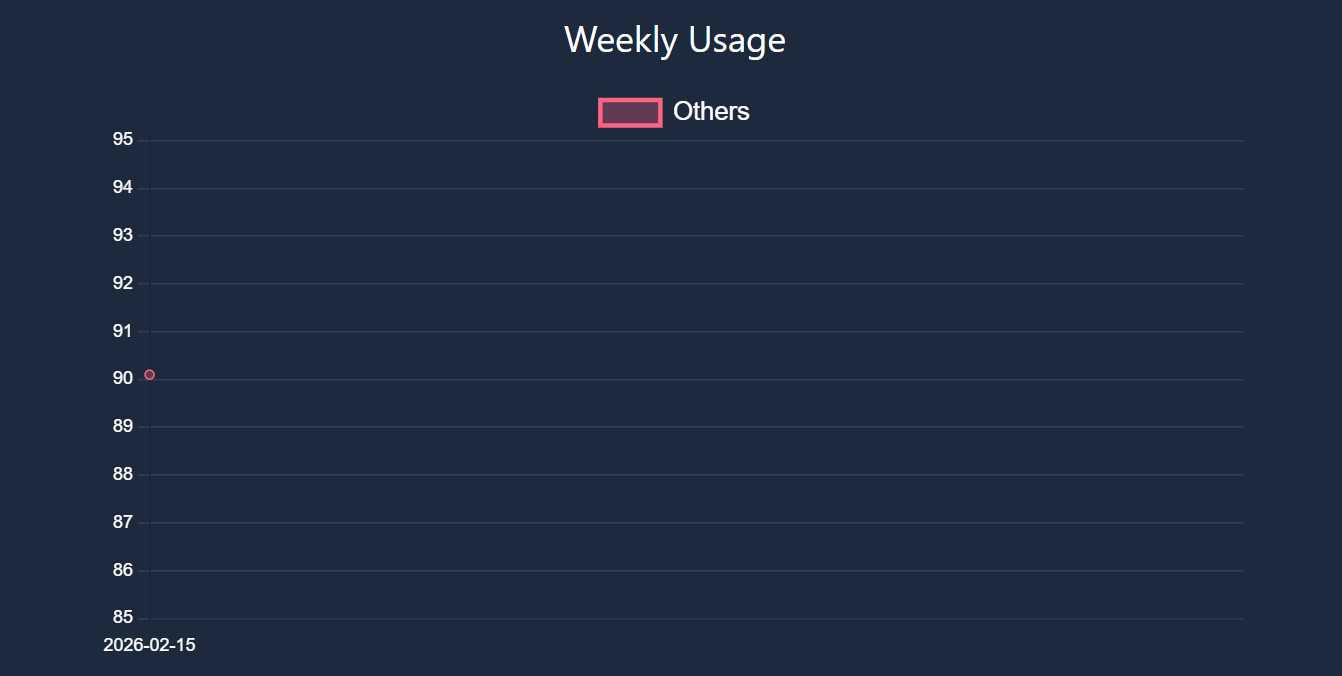
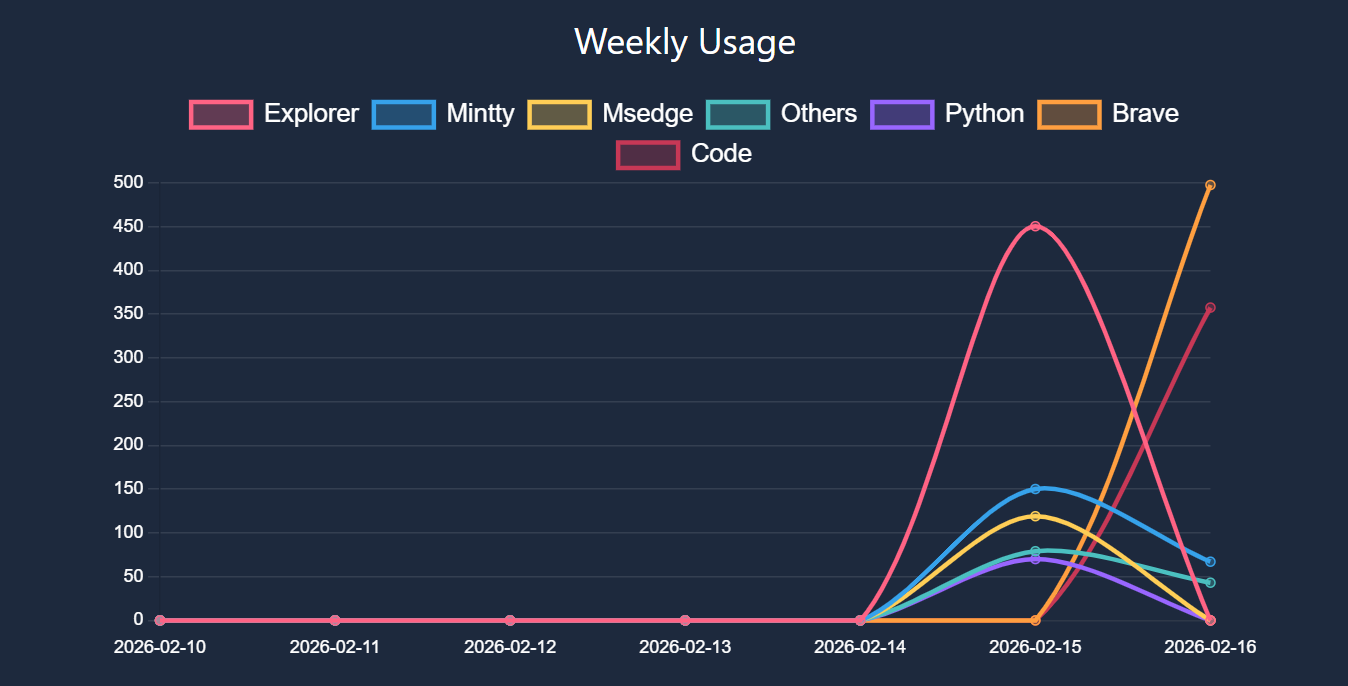
feat: show full 7-day weekly data and update screenshot

diff --git a/backend/api.py b/backend/api.py
@@ -6,6 +6,8 @@ from backend.database import get_weekly_usage, get_monthly_usage
 from fastapi.staticfiles import StaticFiles
 from fastapi.responses import FileResponse
 from pathlib import Path
+from datetime import datetime, timedelta
+
 
 BASE_DIR = Path(__file__).resolve().parent.parent
 DIST_DIR = BASE_DIR / "frontend" / "dist"   
@@ -45,7 +47,20 @@ def get_stats():
 @app.get("/api/weekly")
 def weekly_stats():
     raw_weekly = get_weekly_usage()
-    return {day: format_with_threshold(apps, threshold=60) for day, apps in raw_weekly.items()}
+
+    today = datetime.today()
+    last_7_days = [
+        (today - timedelta(days=i)).strftime("%Y-%m-%d")
+        for i in range(6, -1, -1)
+    ]
+
+    result = {}
+
+    for day in last_7_days:
+        apps = raw_weekly.get(day, {})
+        result[day] = format_with_threshold(apps, threshold=60)
+
+    return result
 
 @app.get("/api/monthly")
 def monthly_stats():
